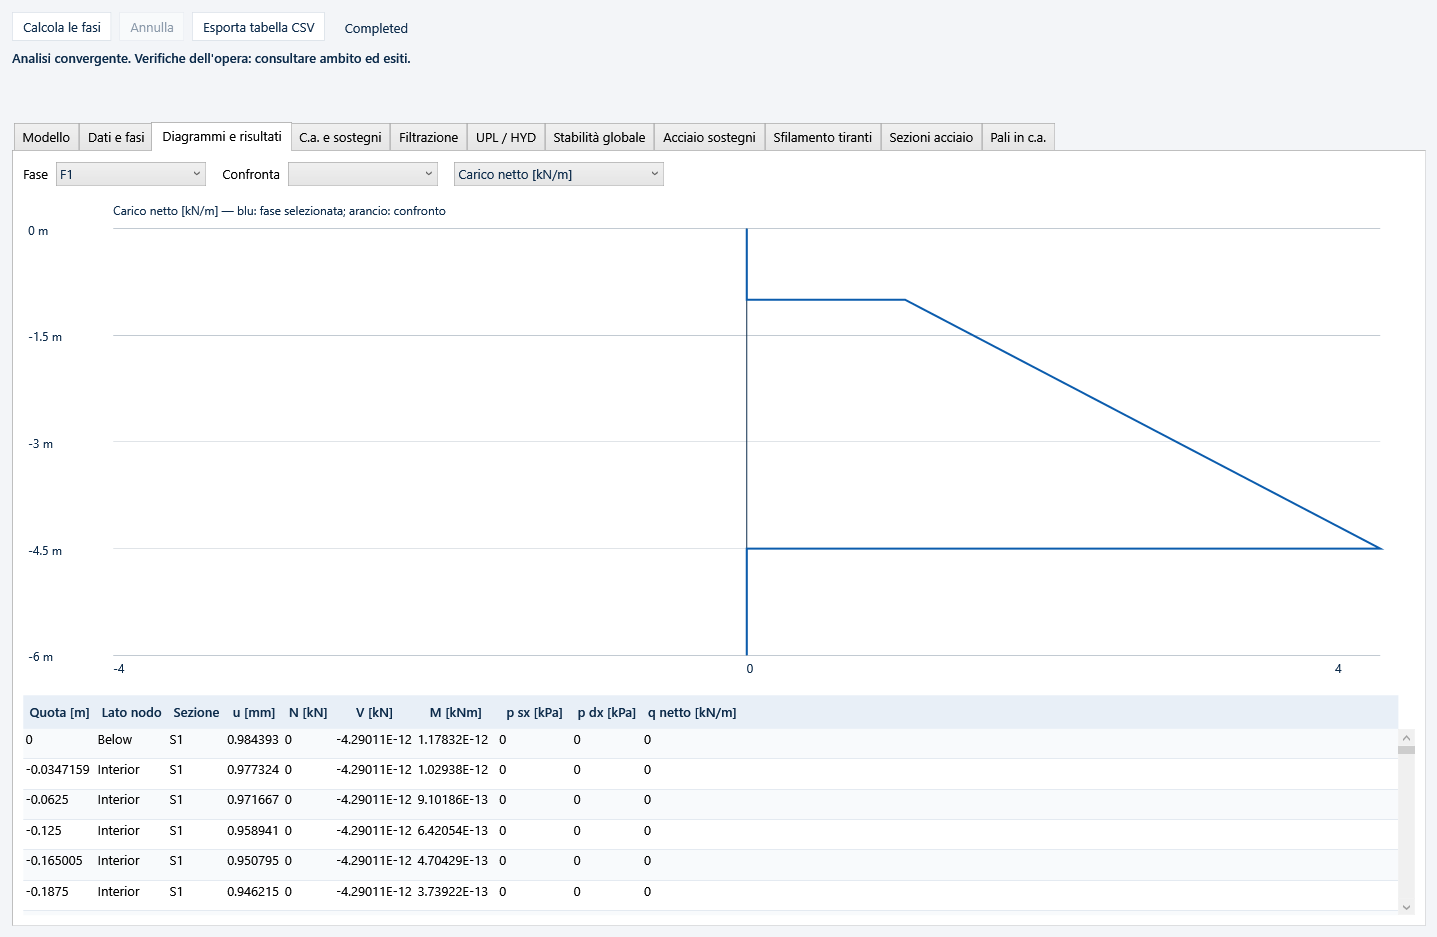
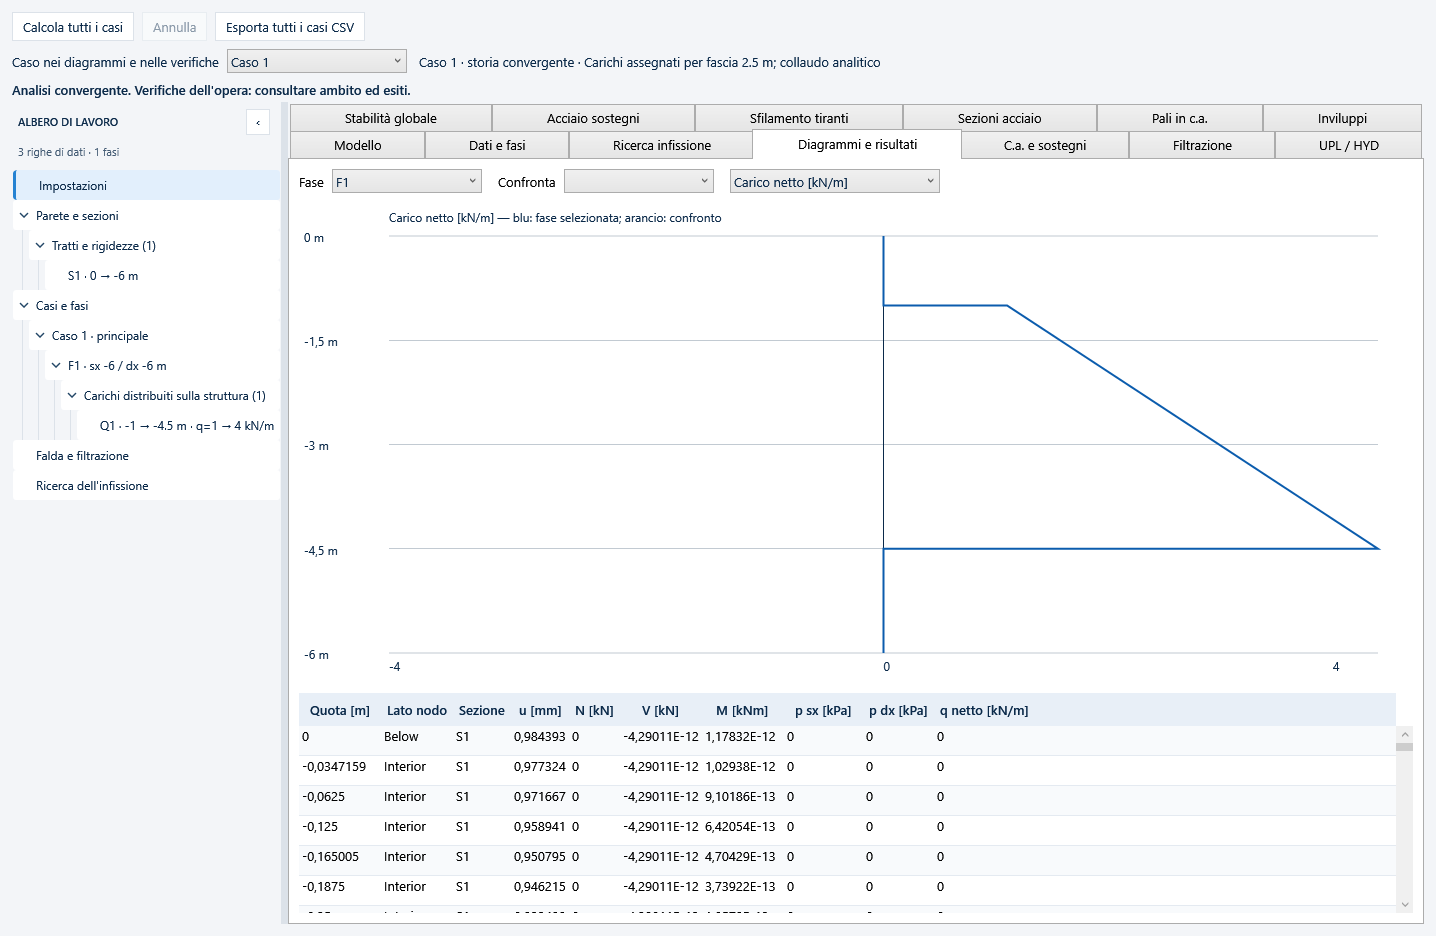
docs(guide): figure delle paratie ricatturate e note della 1.19.4 con le correzioni del report
Consiglio 1 del riepilogo delle 07:50 del 18/11/2026, approvato: le figure
delle paratie della guida pratica si ricatturano con l'edizione Word e PDF
Rev75. Erano del 19-20/10 (Rev50-Rev53), con l'interfaccia di allora.

- src/ANTHEA.Desktop/Assets/Wiki: paratie-carichi-distribuiti, -inviluppi,
  -modello-fasi e -ricerca-infissione dalle catture carichi-distribuiti-
  diagramma, inviluppi, modello-fasi e ricerca-infissione di
  ui/check-paratie-view (corsa 20261118-111952-1194-p2-rc-3dd69aad, uguali alle
  catture approvate). Stesso nome e stesso testo alternativo; 1436 × 936 pixel
  invece di 1437 × 937.
- Wiki: build-wiki-index.py (--check OK, 94 capitoli): cambiano solo le impronte
  delle quattro figure in sources.props; indice e ricerca invariati.
- Note di rilascio 1.19.4: opzioni dei dati assegnati «sì» o «no», «mm2» e
  «mm2/m» con i decimali di mm²; edizioni Word e PDF Rev75 con le figure.

diff --git a/docs/refactoring/note-rilascio-1.19.4.md b/docs/refactoring/note-rilascio-1.19.4.md
@@ -30,7 +30,10 @@ versioni future del documento. Non ci sono comandi nuovi né un formato nuovo de
   Cambia solo con armature diverse sulle due facce.
 - **Esempi 04, 05 e 06** di distribuzione con la storia confermata, e la loro provenienza nel catalogo.
 - **Report.** Ogni numero con i decimali della sua unità, senza esponenti e senza «-0»; m/s e N/mm³ come potenze di dieci; aree e
-  momenti d'inerzia senza decimali; «Dati assegnati» con tutte le cifre degli ingressi e la virgola. I CSV non cambiano.
+  momenti d'inerzia senza decimali, anche quando la libreria scrive l'unità «mm2» o «mm2/m» (verifiche delle armature dei pali
+  circolari: «As minima» 1571 mm2, non più 1570,796); «Dati assegnati» con tutte le cifre degli ingressi e la virgola, e le opzioni
+  (conferma della storia di progetto, testa e piede bloccati, suzione trascurata, conferma A1 e M1 dei tiranti) scritte «sì» o «no»
+  invece di «true» o «false». I CSV non cambiano.
 
 ## Palo orizzontale
 
@@ -74,5 +77,6 @@ a ogni set, e vanno ricalcolati.
 ## Guide
 
 Guide globali Rev75, in Markdown e nella Wiki: paratie (A2, A3, A4, S3 e cifre del report), palo orizzontale (Broms accanto allo
-Stratificato), separatore decimale, torsione del profilo danese e vincoli dei modelli con più freedom case. Le edizioni Word e PDF
-seguono.
+Stratificato), separatore decimale, torsione del profilo danese e vincoli dei modelli con più freedom case. Edizioni Word e PDF Rev75,
+con le quattro figure delle paratie della guida pratica ricatturate dalla vista attuale; le Rev74 sono conservate in
+`supporto/SUPERATI/guide-rev75-20261118/`.
